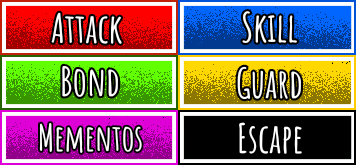
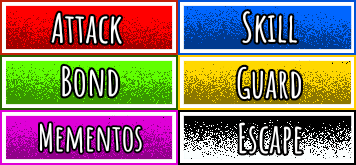
feat(battleui): update battle command with image for better experience

Changed region(s): [[0.4944, 0.7576, 0.9888, 0.9697], [0.7416, 0.7273, 0.7725, 0.7576]]

diff --git a/js/plugins/BattleCommandImage.js b/js/plugins/BattleCommandImage.js
@@ -1,0 +1,87 @@
+//=============================================================================
+// BattleCommandImage.js
+//=============================================================================
+// Plugin untuk mengganti tampilan tombol command battle dengan gambar sprite sheet
+// Letakkan di folder js/plugins/ dan aktifkan di Plugin Manager
+//
+// Gambar: img/system/BattleCommand.png (enable), img/system/BattleCommandDisable.png (disable)
+// Ukuran: 2 kolom x 3 baris, masing-masing 178x55 px
+//=============================================================================
+(function() {
+    const btnW = 178;
+    const btnH = 55;
+    const cols = 2;
+
+    const _drawItem = Window_ActorCommand.prototype.drawItem;
+    function ensureBattleCommandImagesReady(callback) {
+        const img1 = ImageManager.loadSystem('BattleCommand');
+        const img2 = ImageManager.loadSystem('BattleCommandDisable');
+        if (img1.isReady() && img2.isReady()) {
+            callback();
+        } else {
+            let called = false;
+            const tryCallback = () => {
+                if (!called && img1.isReady() && img2.isReady()) {
+                    called = true;
+                    callback();
+                }
+            };
+            img1.addLoadListener(tryCallback);
+            img2.addLoadListener(tryCallback);
+        }
+    }
+
+    const _maxItems = Window_ActorCommand.prototype.maxItems;
+    Window_ActorCommand.prototype.maxItems = function() {
+        if (!this._list) return 0;
+        return _maxItems ? _maxItems.call(this) : this._list.length;
+    };
+
+    const _refresh = Window_ActorCommand.prototype.refresh;
+    Window_ActorCommand.prototype.refresh = function() {
+        ensureBattleCommandImagesReady(() => _refresh.call(this));
+    };
+
+    Window_ActorCommand.prototype.drawItem = function(index) {
+        if (!this._list || !Array.isArray(this._list) || !this._list[index]) return;
+        const rect = this.itemLineRect(index);
+        const col = index % cols;
+        const row = Math.floor(index / cols);
+        const sx = col * btnW;
+        const sy = row * btnH;
+
+        let enabled = this.isCommandEnabled(index);
+        let isSelected = (this.index() === index);
+        let bitmap = enabled ? ImageManager.loadSystem('BattleCommand') : ImageManager.loadSystem('BattleCommandDisable');
+
+        if (!bitmap || !bitmap.isReady()) return;
+
+        this.contents.blt(bitmap, sx, sy, btnW, btnH, rect.x, rect.y, rect.width, rect.height);
+
+        const cursorBmp = ImageManager.loadSystem('FingerCursor');
+        const cursorMargin = 12;
+        const scale = 1.5; 
+        if (isSelected && cursorBmp && cursorBmp.isReady()) {
+            const frame = SceneManager._frameCount || 0;
+            const anim = Math.sin(frame / 8) * 6;
+            const drawW = cursorBmp.width * scale;
+            const drawH = cursorBmp.height * scale;
+            const cursorY = rect.y + (rect.height - drawH) / 2;
+            const cursorX = rect.x + cursorMargin + anim;
+            this.contents.blt(cursorBmp, 0, 0, cursorBmp.width, cursorBmp.height, cursorX, cursorY, drawW, drawH);
+        } else if (isSelected && cursorBmp) {
+            cursorBmp.addLoadListener(() => this.redrawItem(index));
+        }
+    };
+
+    const _update = Window_ActorCommand.prototype.update;
+    Window_ActorCommand.prototype.update = function() {
+        _update.call(this);
+        if (this.active && this.visible && this.openness > 0 && typeof this.index === 'function') {
+            const idx = this.index();
+            if (idx >= 0 && idx < (this._list ? this._list.length : 0)) {
+                this.redrawItem(idx);
+            }
+        }
+    };
+})();

diff --git a/js/plugins.js b/js/plugins.js
@@ -23,5 +23,6 @@ var $plugins =
 {"name":"TotallyNotOmoriMainMenuUISkeleton","status":true,"description":"Reverie - Complete Main Menu UI Override (ONLY SKELETON HERE, THE ACTUAL UI WAS MADE VIA SRD HUD MAKER ULTRA)","parameters":{}},
 {"name":"NRP_EventCollisionEX","status":true,"description":"v1.04 Extends the collision detection for events.","parameters":{"ConsiderEventMove":"false","SettingList":"[]"}},
 {"name":"GabeMZ_FogEffects","status":true,"description":"[v2.1.0] Allows to create and display fog effects on maps and battles.","parameters":{"fogSettings":"[\"{\\\"fogFilename\\\":\\\"Fog\\\",\\\"fogOpacity\\\":\\\"225\\\",\\\"fogBlendMode\\\":\\\"0\\\",\\\"fogMoveX\\\":\\\"0.4\\\",\\\"fogMoveY\\\":\\\"0\\\"}\",\"{\\\"fogFilename\\\":\\\"FogGreen\\\",\\\"fogOpacity\\\":\\\"125.0\\\",\\\"fogBlendMode\\\":\\\"0\\\",\\\"fogMoveX\\\":\\\"0.7\\\",\\\"fogMoveY\\\":\\\"0\\\"}\"]","fogInMap":"true","fogInBattle":"true","fogOptionsMenuCommand":"===============================================","commandEnabled":"true","commandName":"Fog Effects"}},
-{"name":"CustomMessageBackground","status":true,"description":"Ganti background window tertentu dengan warna hitam solid dan border putih (style Undertale). Pilihan (choice) pakai ikon tangan di dalam box, teks rata kanan.","parameters":{}}
+{"name":"CustomMessageBackground","status":true,"description":"Ganti background window tertentu dengan warna hitam solid dan border putih (style Undertale). Pilihan (choice) pakai ikon tangan di dalam box, teks rata kanan.","parameters":{}},
+{"name":"BattleCommandImage","status":true,"description":"","parameters":{}}
 ];
